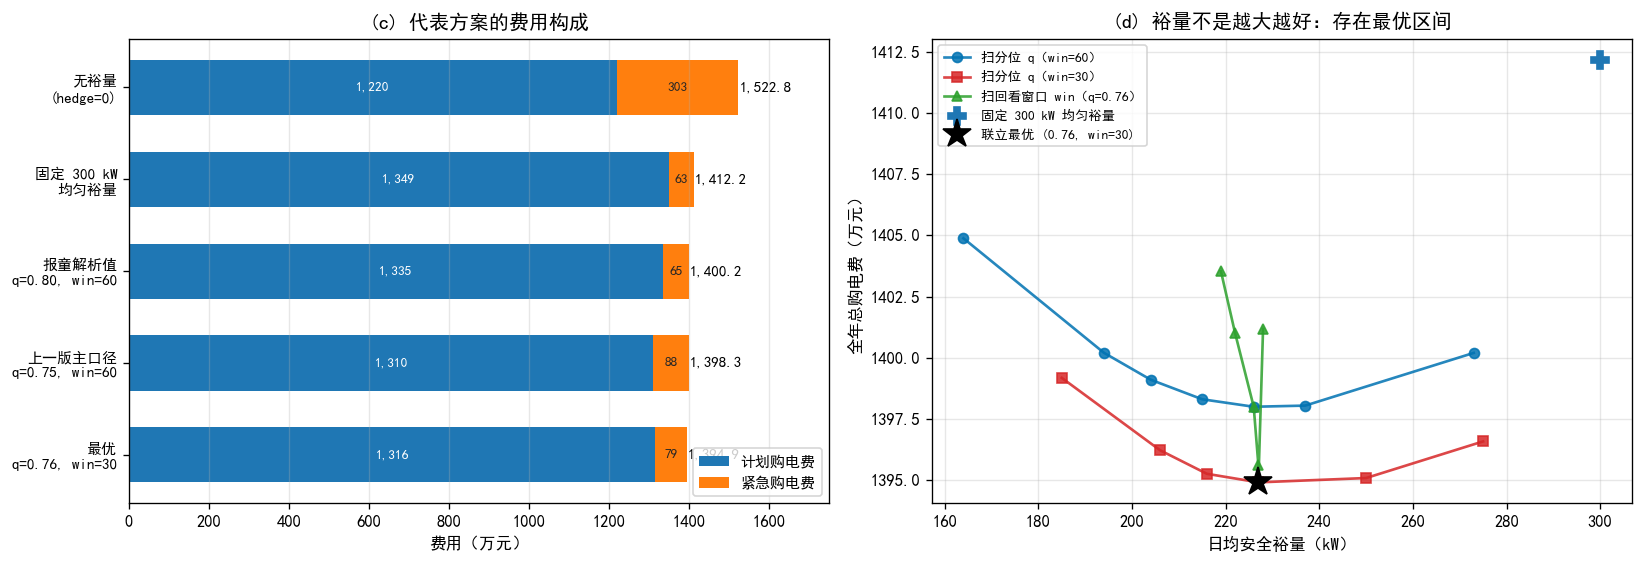
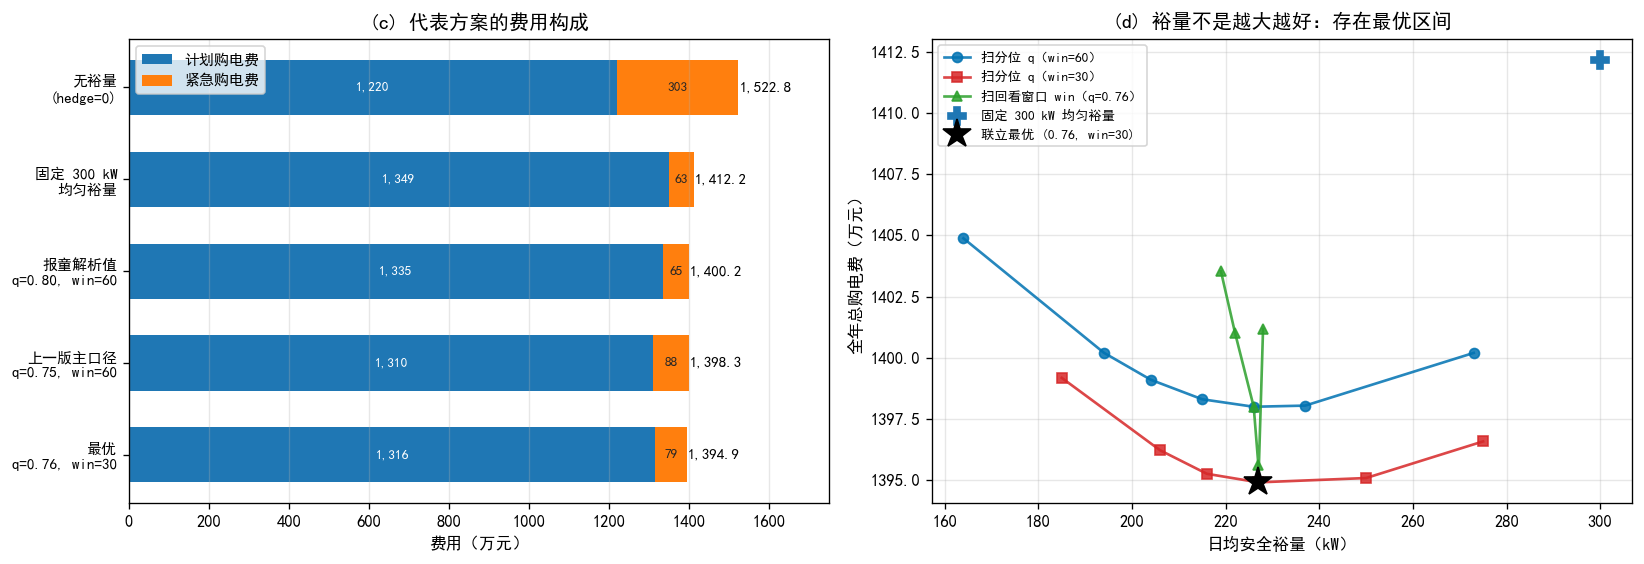
补回 q3.py 报告里被误删的 adapt 口径声明；文档补 adapt 机制与实测降误差数据

Changed region(s): [[0.062, 0.0603, 0.1861, 0.1809], [0.4033, 0.7837, 0.4964, 0.9043]]

diff --git a/q3.py b/q3.py
@@ -378,6 +378,9 @@ def main():
     log(f"安全裕量口径：" + (f"逐时段取历史 {HEDGE_WIN} 天负载预报误差的 "
         f"{HEDGE_PARAM:.2f} 分位数（报童模型）" if HEDGE_MODE == "quantile"
         else f"全天固定 {HEDGE:g} kW"))
+    log(f"负载当日自适应修正：限幅 ±{ADAPT:.0%}（用当日已发生时段的实际/预报均值之比缩放剩余时段预报；"
+        f"实测使剩余时段 MAE 198.4 → 172.9 kW，降 12.9%）"
+        if ADAPT > 0 else "负载当日自适应修正：关闭（adapt=0）")
     log(f"购电费用口径：C_t = π_t·min(b^p_t, b^a_t) + 0.5π_t·(b^p_t−b^a_t)^+ + 1.5π_t·(b^a_t−b^p_t)^+")
     log("储能执行：逐槽被动平衡（与问题二完全同一口径），调整 LP 通过分段线性约束精确嵌入该规则")
 

diff --git a/q2_tune_plot.py b/q2_tune_plot.py
@@ -136,7 +136,7 @@ def main():
     ax.set_xlim(0, 1750)
     ax.set_title("(c) 代表方案的费用构成")
     ax.grid(alpha=.3, axis="x")
-    ax.legend(fontsize=9, loc="lower right")
+    ax.legend(fontsize=9, loc="upper left")
 
     # ------------------------------------------------ (d) 日均裕量 vs 总费用
     ax = axB[1]

diff --git a/模型与口径说明.md b/模型与口径说明.md
@@ -595,8 +595,18 @@ flowchart TD
 |---|---|
 | 光伏混合权重 `mix` | **0.4 最优**（纯附件3 最差：3.28 M） |
 | 安全裕量 `hedge`（标量时代） | 300 kW 最优（0→3.08 M，100→2.90 M，200→2.81 M，**300→2.793 M**，400→2.81 M，600→2.92 M）；**现已升级为分位数规则，见 §4.8** |
-| 负载当日自适应 `adapt` | **0.2 最优**（用当日已发生时段的实际/预报之比缩放剩余时段预报） |
+| 负载当日自适应 `adapt` | **0.2 最优**（用当日已发生时段的实际/预报之比缩放剩余时段预报）；详见下方说明 |
 | 决策时刻 | **(0, 6, 12, 18) 最优**；(0,3,…,21)→3.078 M；每小时→3.080 M（**加密更差**） |
+
+> **`adapt` 的机制与实测价值**：在 6:00 / 12:00 / 18:00 这些决策时刻，当天一部分时段已经过去、
+> 实际负载是**已知**的。取 $k=\text{mean}(L_{\text{已发生}})/\text{mean}(F_{\text{已发生}})$
+> 并限幅到 $[1-\text{adapt},1+\text{adapt}]$，用它缩放**剩余时段**的预报 —— 这是不需要任何
+> 额外预报的免费信息。限幅 ±20% 只在全年 365 天中的 2~3 天真正触发。
+>
+> 实测（逐时段 MAE，仅统计剩余时段）：$|k-1|$ 的全年均值只有 **1.7%**（约 78 kW），
+> 却把 MAE 从 198.4 kW 降到 **172.9 kW（−12.9%）**（6:00 处 −10.3%、18:00 处 −13.2%）。
+> 说明 wday:7 的误差里有约 13% 是**当天整体的公共偏移**（这天整体偏高/偏低），
+> 而不是逐槽独立的噪声；$k$ 估的正是这个公共分量，乘一次就能整体去掉。
 
 基准配置 3,182,112 元 → 最优组合 **2,792,909 元**（省 38.9 万、12.2%）。
 
